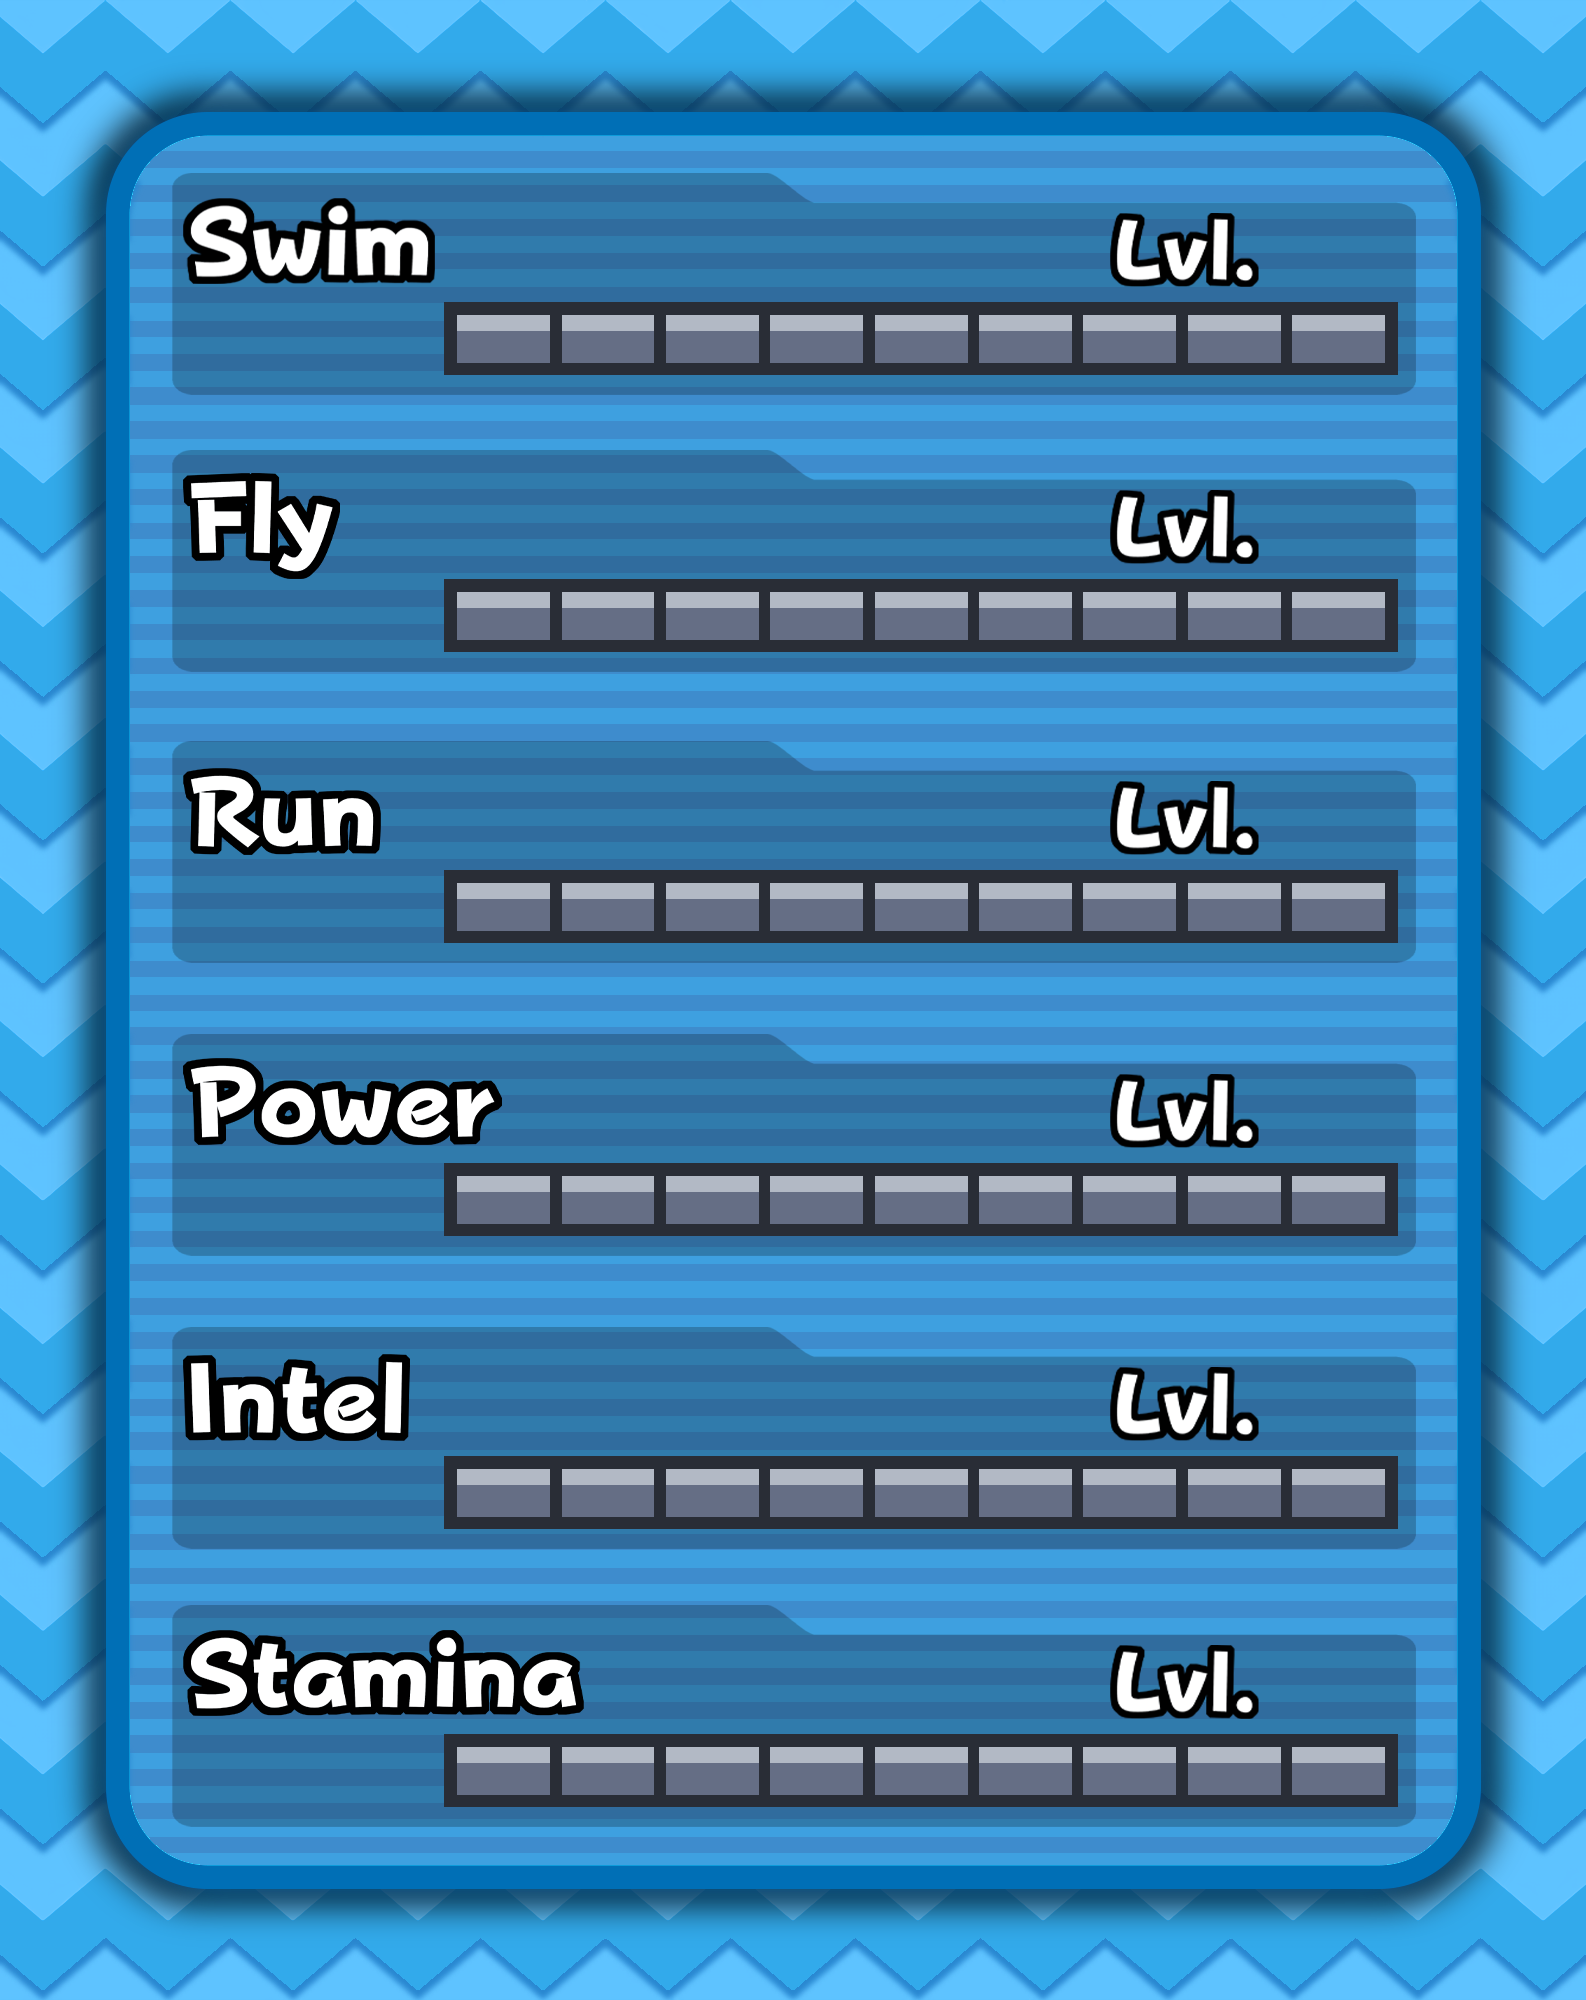
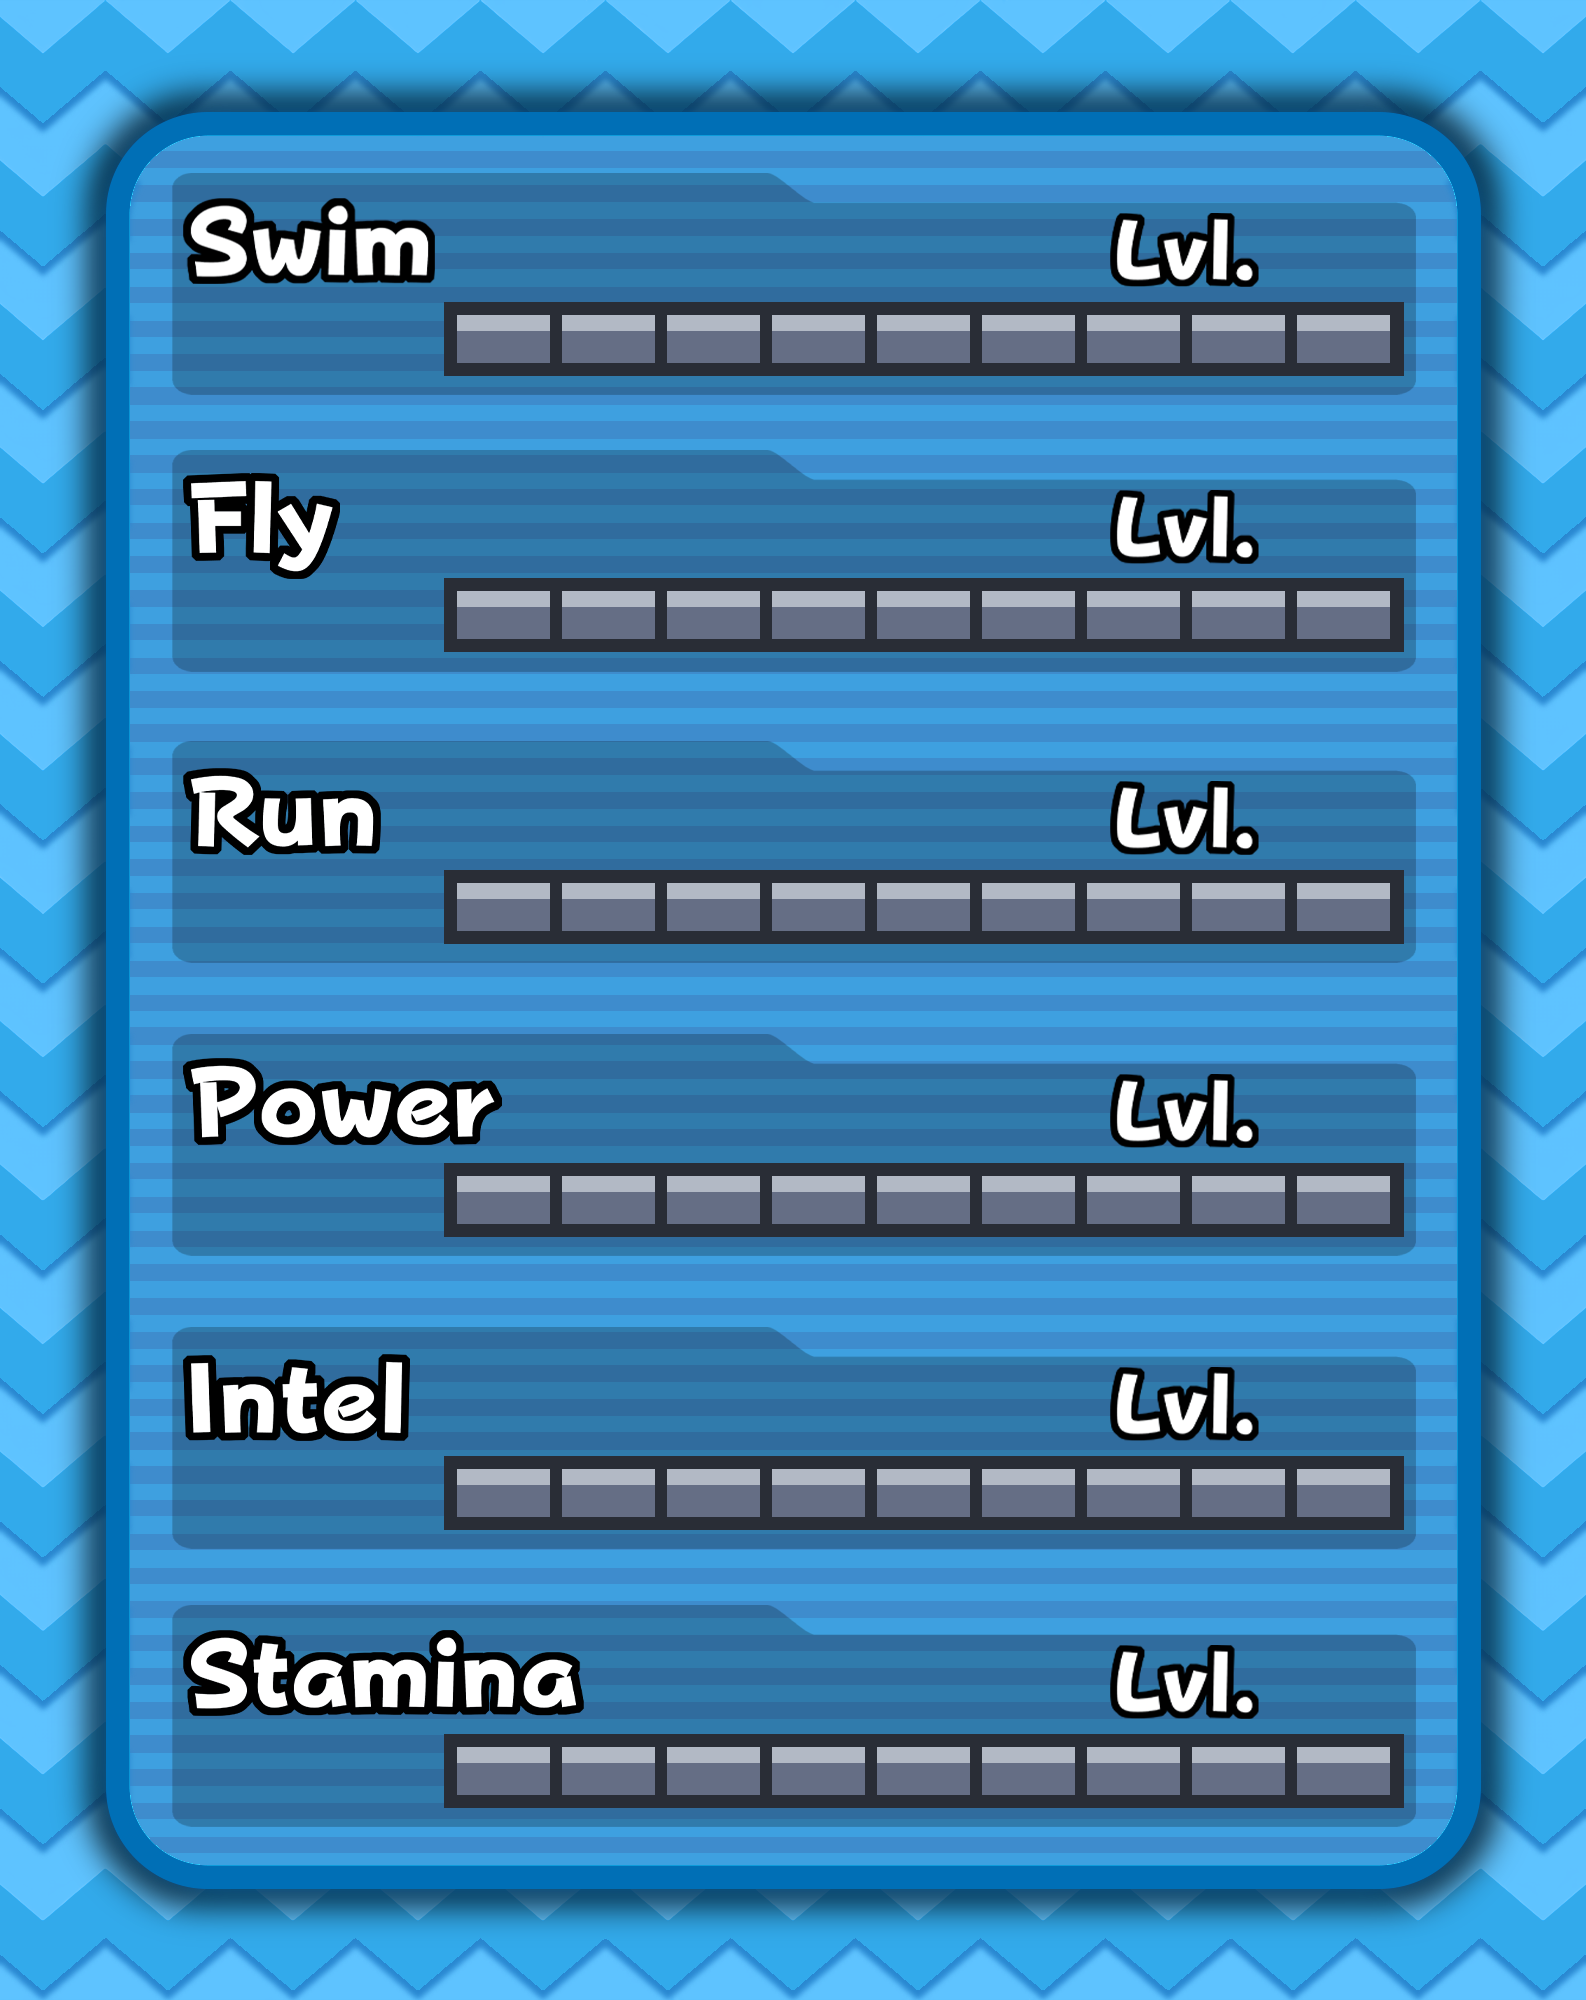
Update tick spacing for power, swim, stamina, fly, run, and hp ticks in Generator class.

diff --git a/src/cogs/generator.py b/src/cogs/generator.py
@@ -23,7 +23,7 @@ class Generator(commands.Cog):
                 template.paste(overlay, position, overlay)
 
         # Paste power, swim, stamina, fly, run, and hp ticks
-        for position, ticks, spacing in zip(tick_positions, [power_ticks, swim_ticks, stamina_ticks, fly_ticks, run_ticks, hp_ticks], [118, 104, 118, 118, 118, 118]):
+        for position, ticks, spacing in zip(tick_positions, [power_ticks, swim_ticks, stamina_ticks, fly_ticks, run_ticks, hp_ticks], [118, 105, 118, 118, 118, 118]):
             paste_ticks(position, ticks, spacing)
 
         template.save(output_path)
